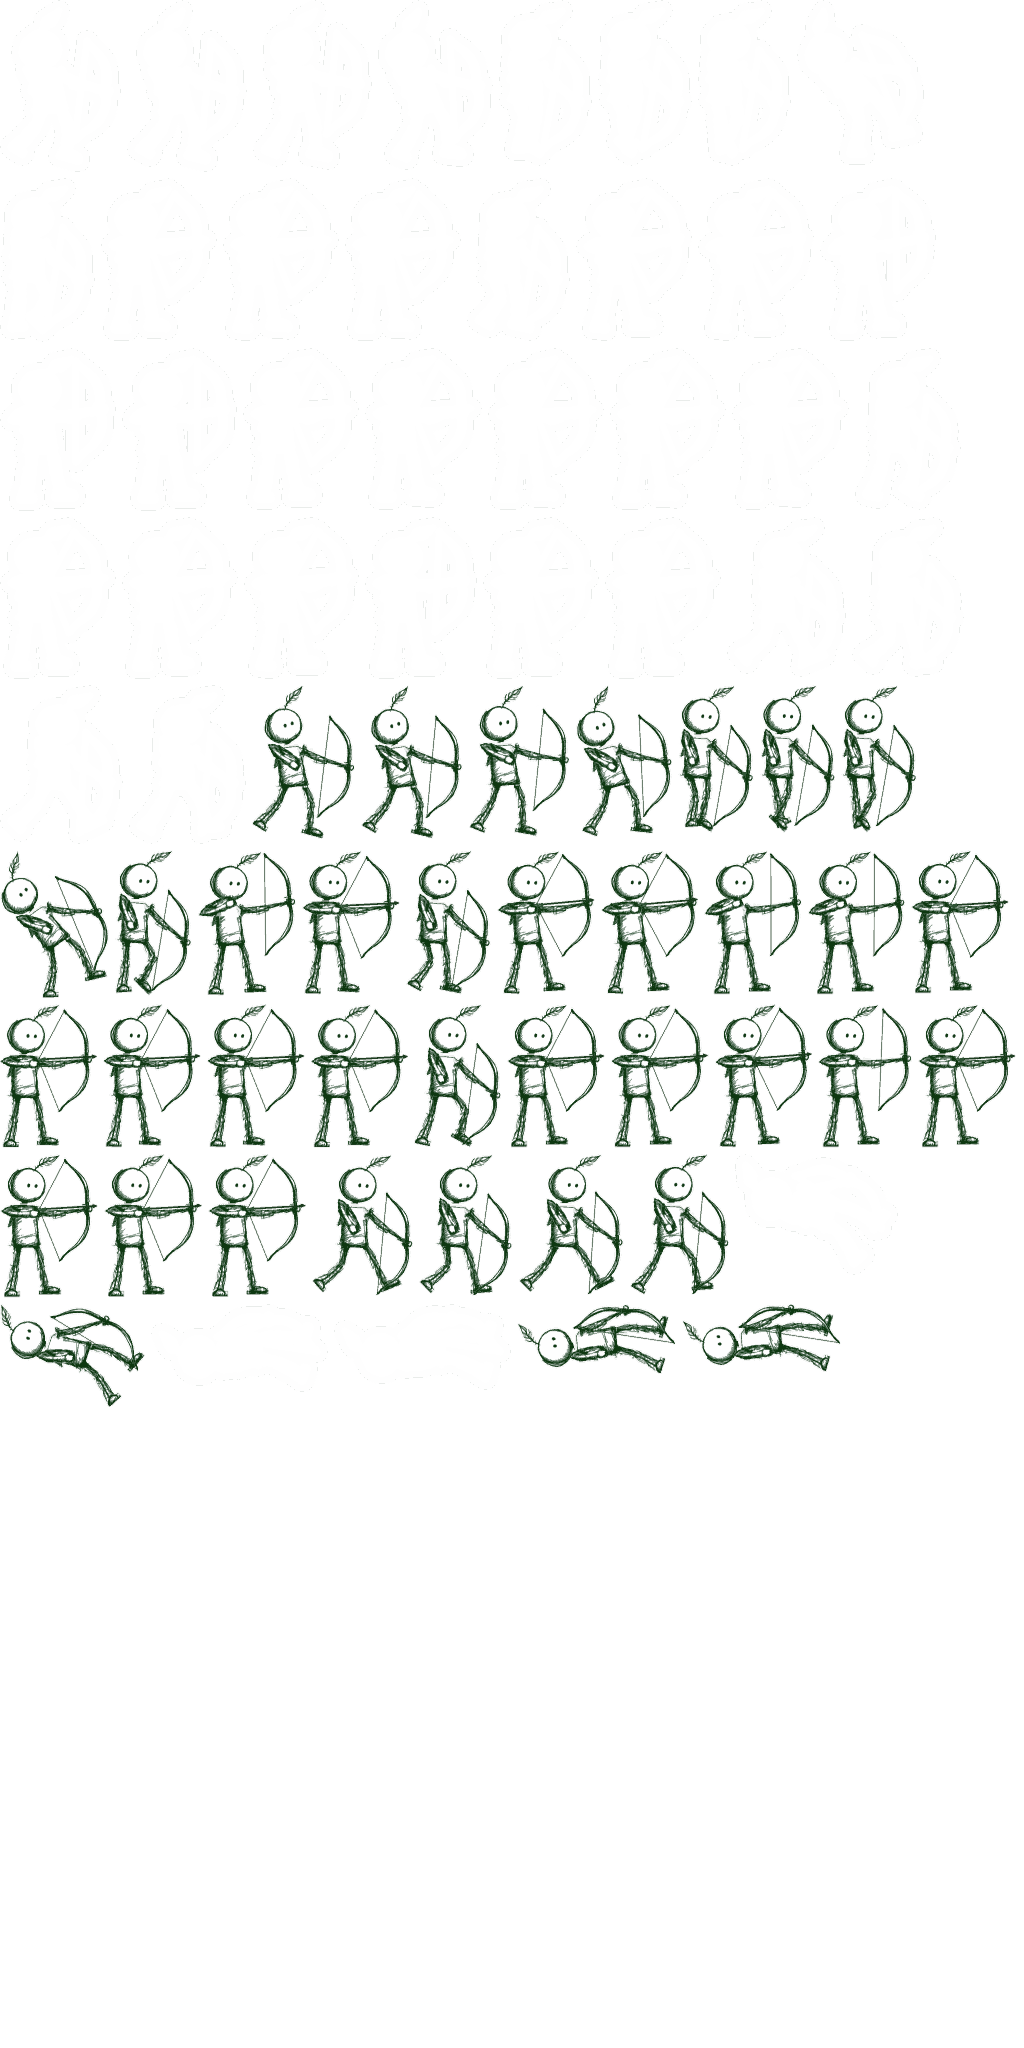
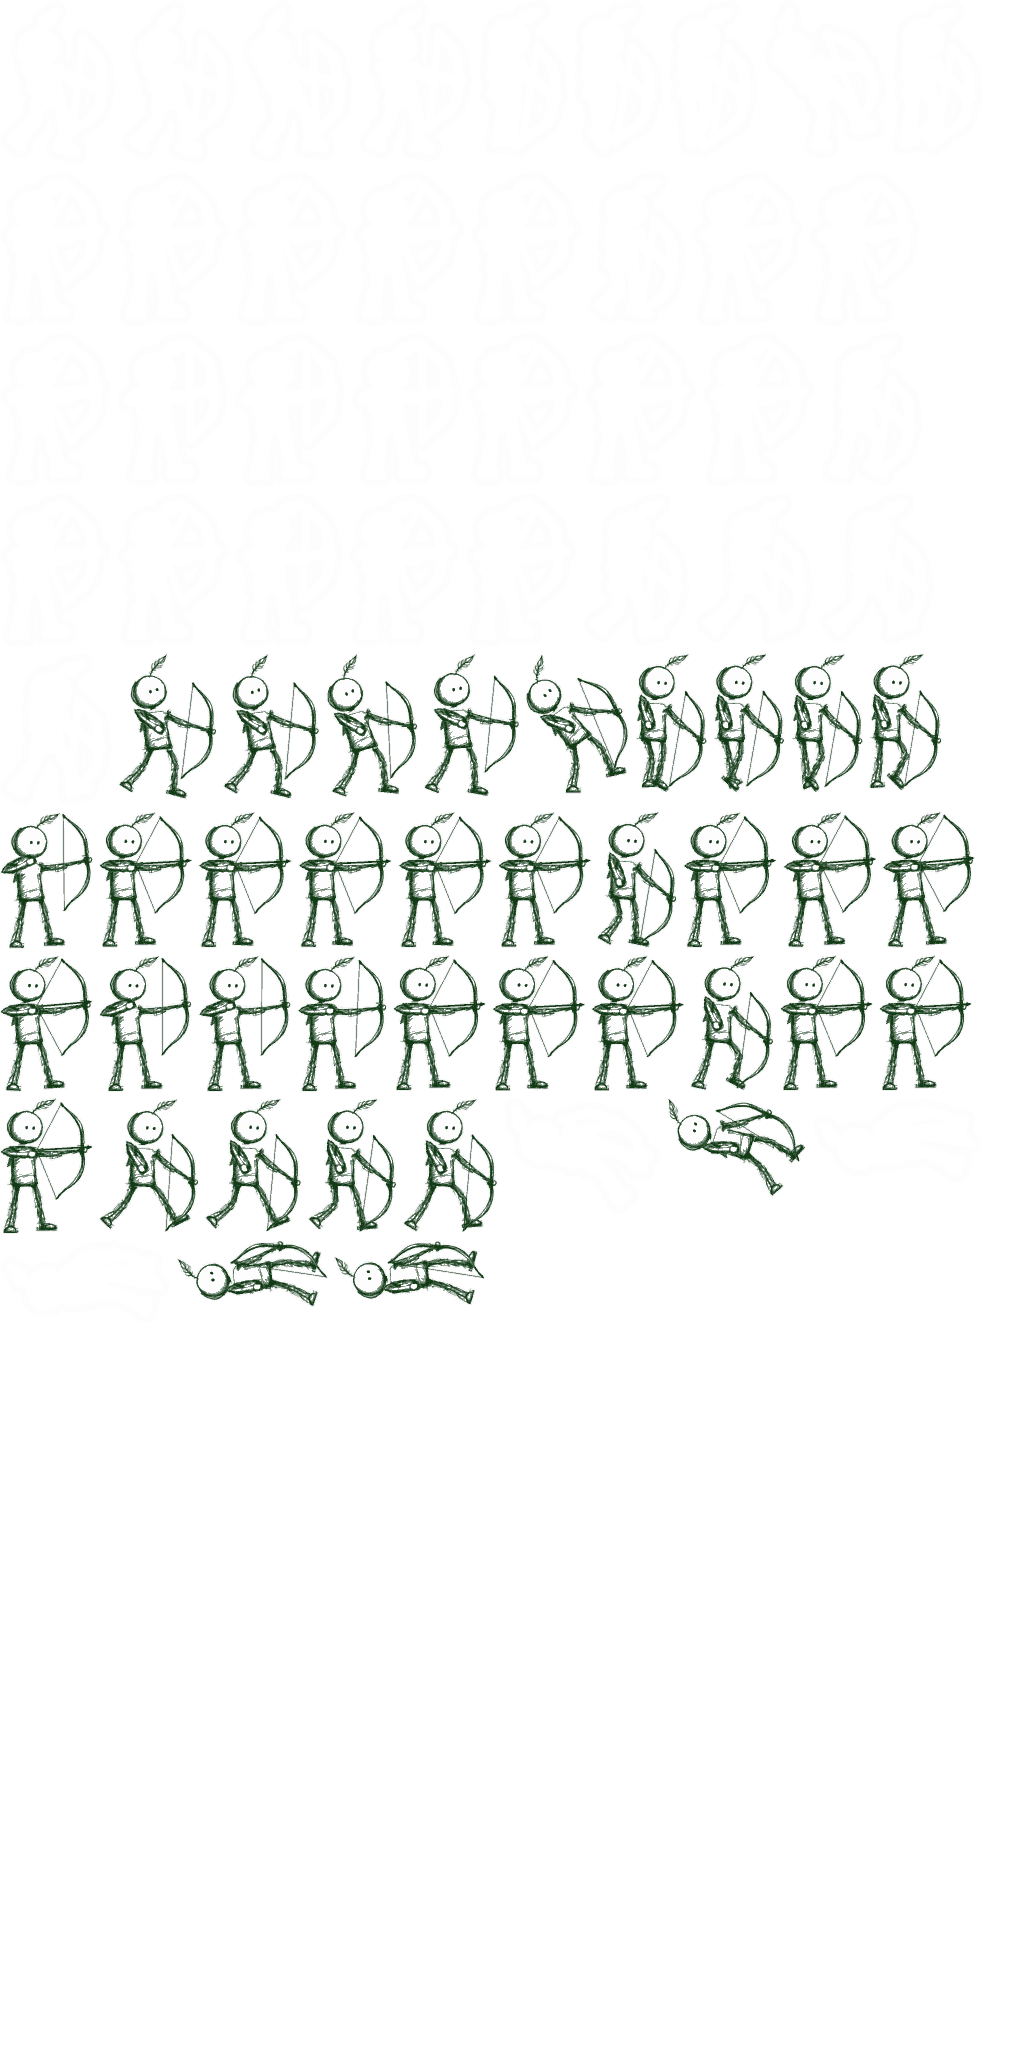
feat(unit-frames): shrink Infantry and Archer sheets to the bone-rig size

Changed region(s): [[0.0, 0.3125, 1.0, 0.6875], [0.5, 0.625, 0.5312, 0.6562]]

diff --git a/design/product/art-direction.md b/design/product/art-direction.md
@@ -207,8 +207,9 @@
   持弓臂、弓连握弓手、两腿各三段。原画是满弓瞄准姿势但**没画弦**，箭画在手臂上方：
   箭从持弓臂（`open` 去掉细线）和弓（`exclude` 掉弓外那截）里抠掉，弦和箭改由绑定器画（`lines`，同 Mara）。
   待机就是满弓瞄准；走路时弓放低到身前、拉弦手垂到腰边、弦拉直不带箭；攻击是再拉一点 → 撒放（箭消失、弦弹直、拉弦手后甩）→ 重新搭箭。
-  序列帧按尺寸档（普通兵 M 54 px、弓箭兵 S 46 px）出图，但大圆头让它们在 `?unitlab` 里明显比骨骼版大一圈
-  （骨骼版的头是另画的小头）。
+  大圆头让它们按尺寸档（普通兵 M 54 px、弓箭兵 S 46 px）出图时明显比骨骼版大一圈（骨骼版的头是另画的小头）。
+  用户要求和骨骼版一样大：把规格里的 `crown` 往上抬（普通兵 5 → -343，即缩到 0.65；弓箭兵 3 → -31，缩到 0.95），
+  `shadow` 和 `points.hit` 按同一比例缩小。运行时缩放只看 `height` 对应的地面到 `crown` 距离，所以不用改代码。
 - `?unitlab&unit=<type>[,<type>]` 只显示指定单位（整页是一块画布，一屏只放得下约两个单位）。
 
 **范围与限制。**
@@ -225,7 +226,7 @@
 - 体积：Lena 图集 1024×2048（约 0.62 MB，GPU 约 8 MB），Mara 图集 1024×1024（约 0.35 MB）；
   盾兵 1024×2048 原为 0.94 MB，线稿只有蓝白两色，用 `"colors": 64` 存成调色板 PNG 后约 0.17 MB，看不出损失；
   Max 是水彩板甲，同样 64 色，1024×2048 约 0.11 MB，放大看也没有明显色带。
-  普通兵、弓箭兵（单色涂鸦线稿）64 色各约 0.15 MB。
+  普通兵、弓箭兵（单色涂鸦线稿）64 色约 0.07 MB / 0.13 MB（普通兵缩小后图集只要 1024×1024）。
   全量推广前要压缩：描边帧降为半分辨率，或改用调色板 PNG（规格里的 `colors` 字段）。
 
 | 动画类型 | 说明 |
